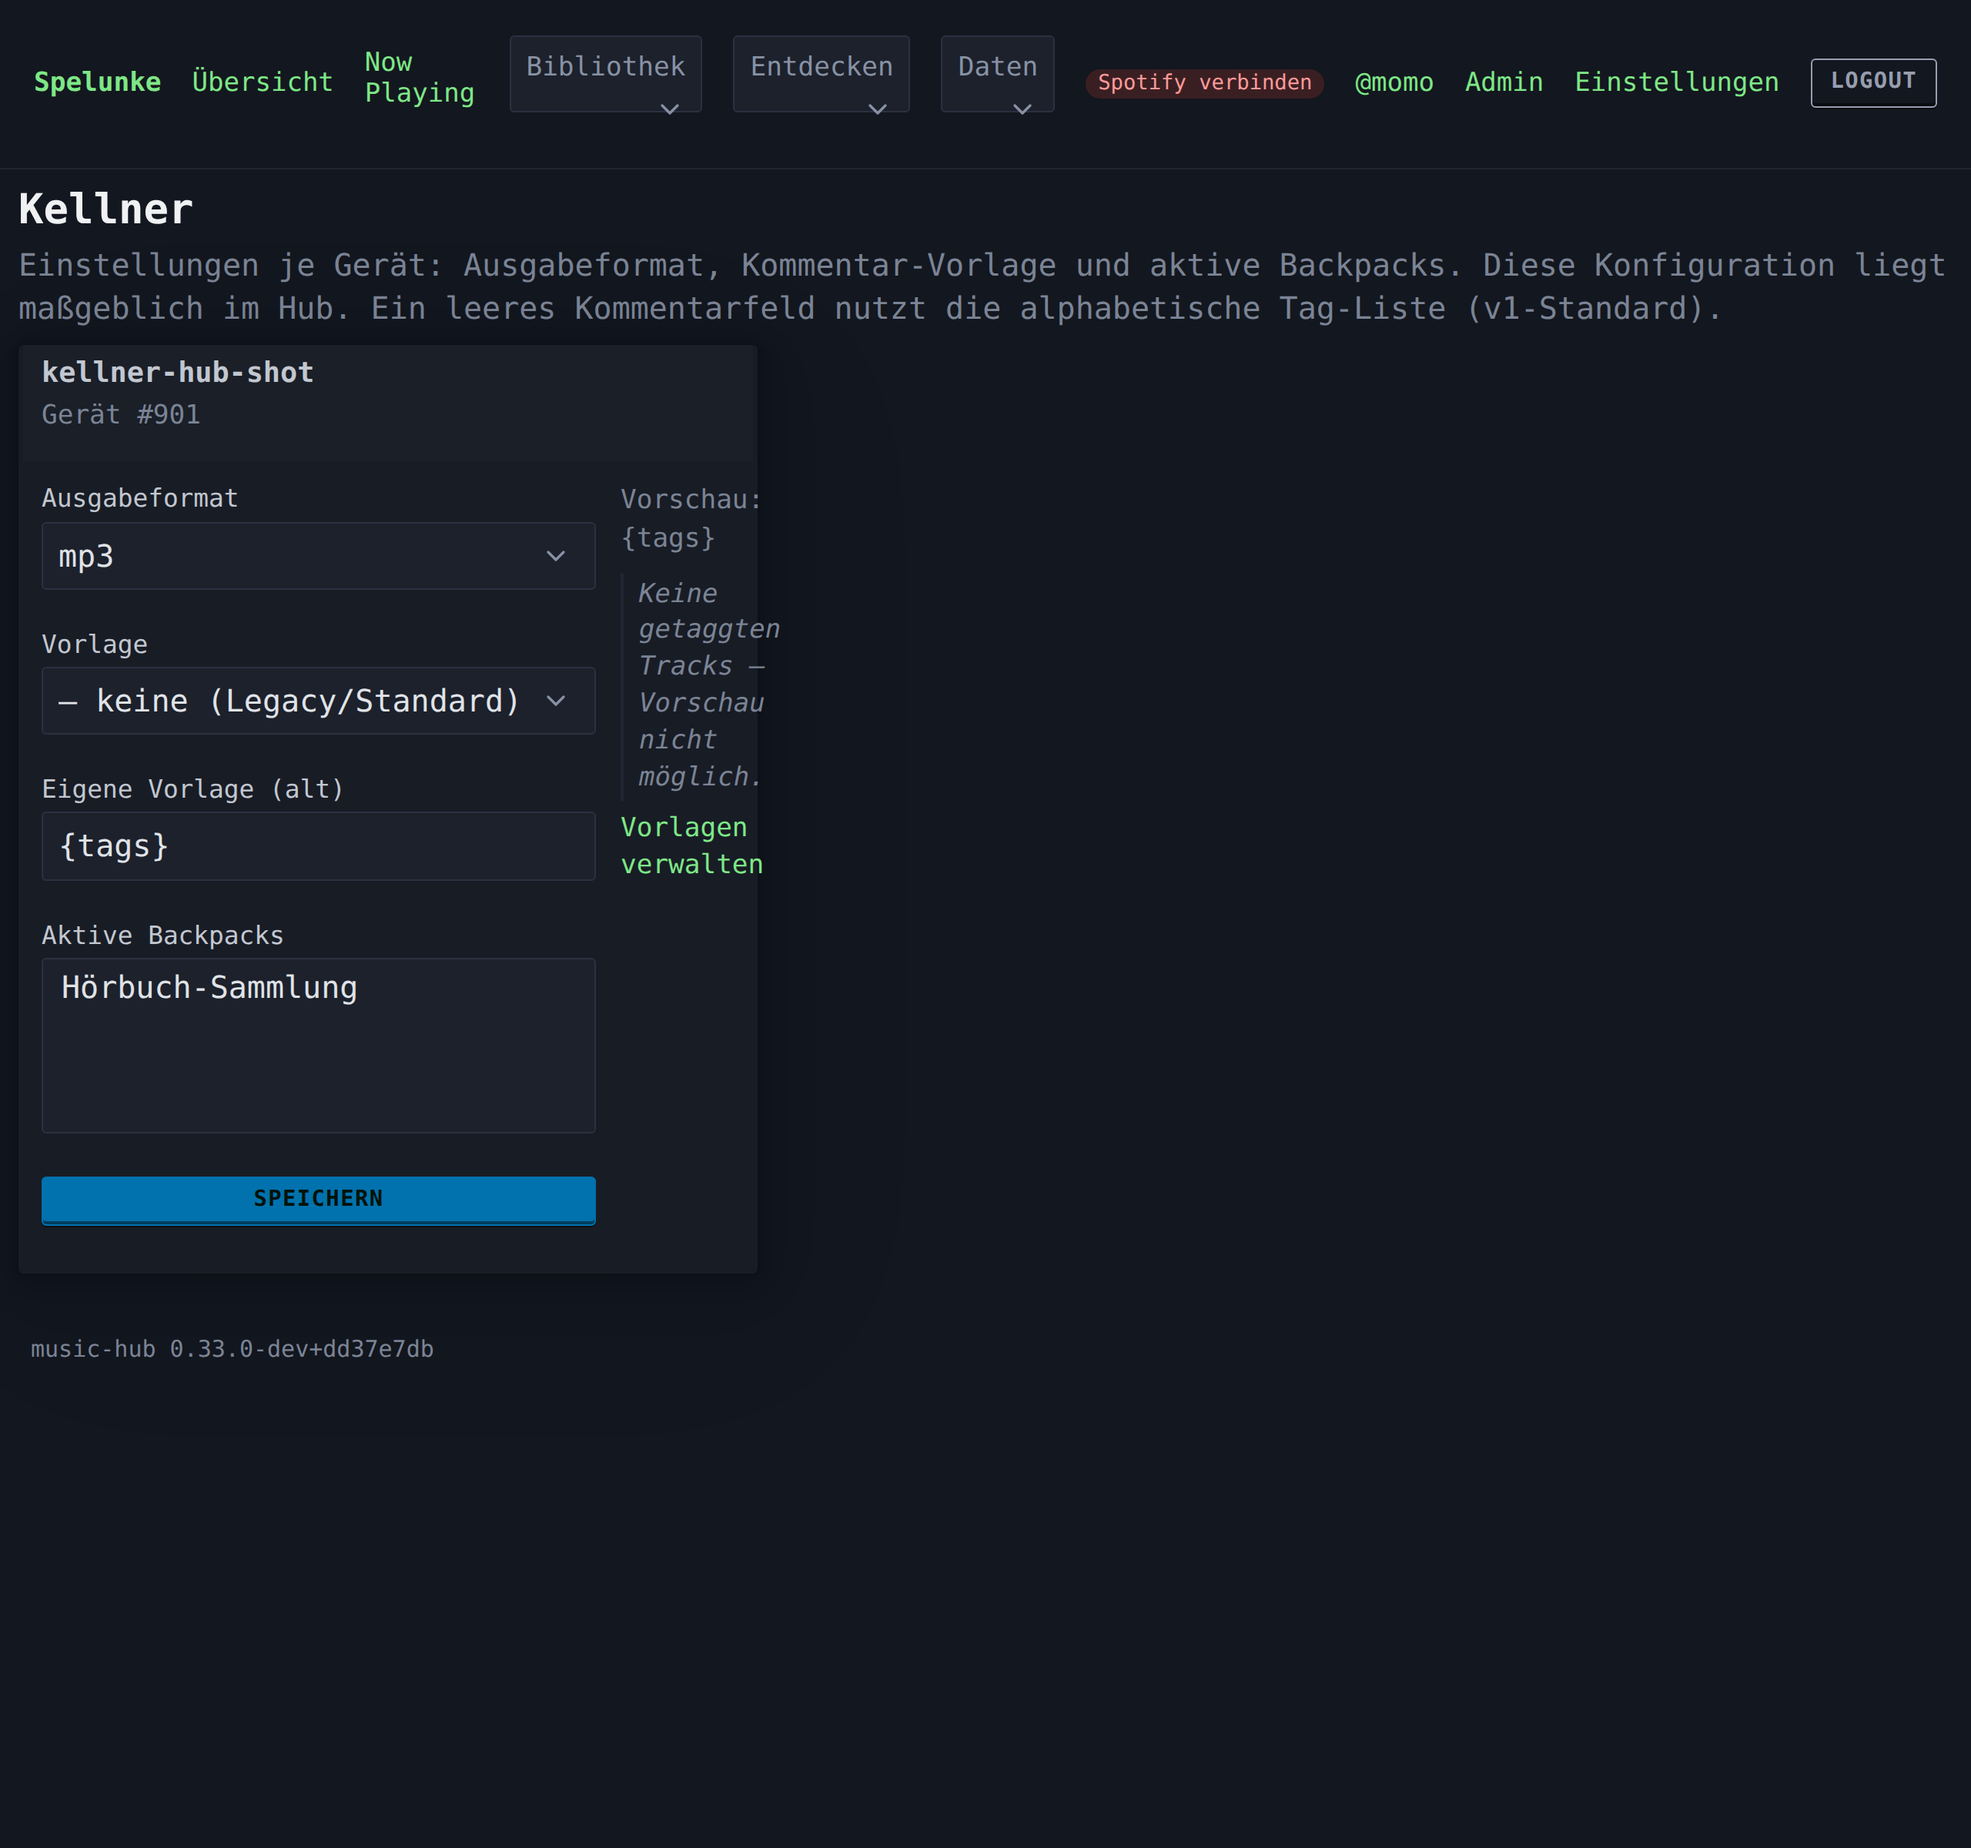
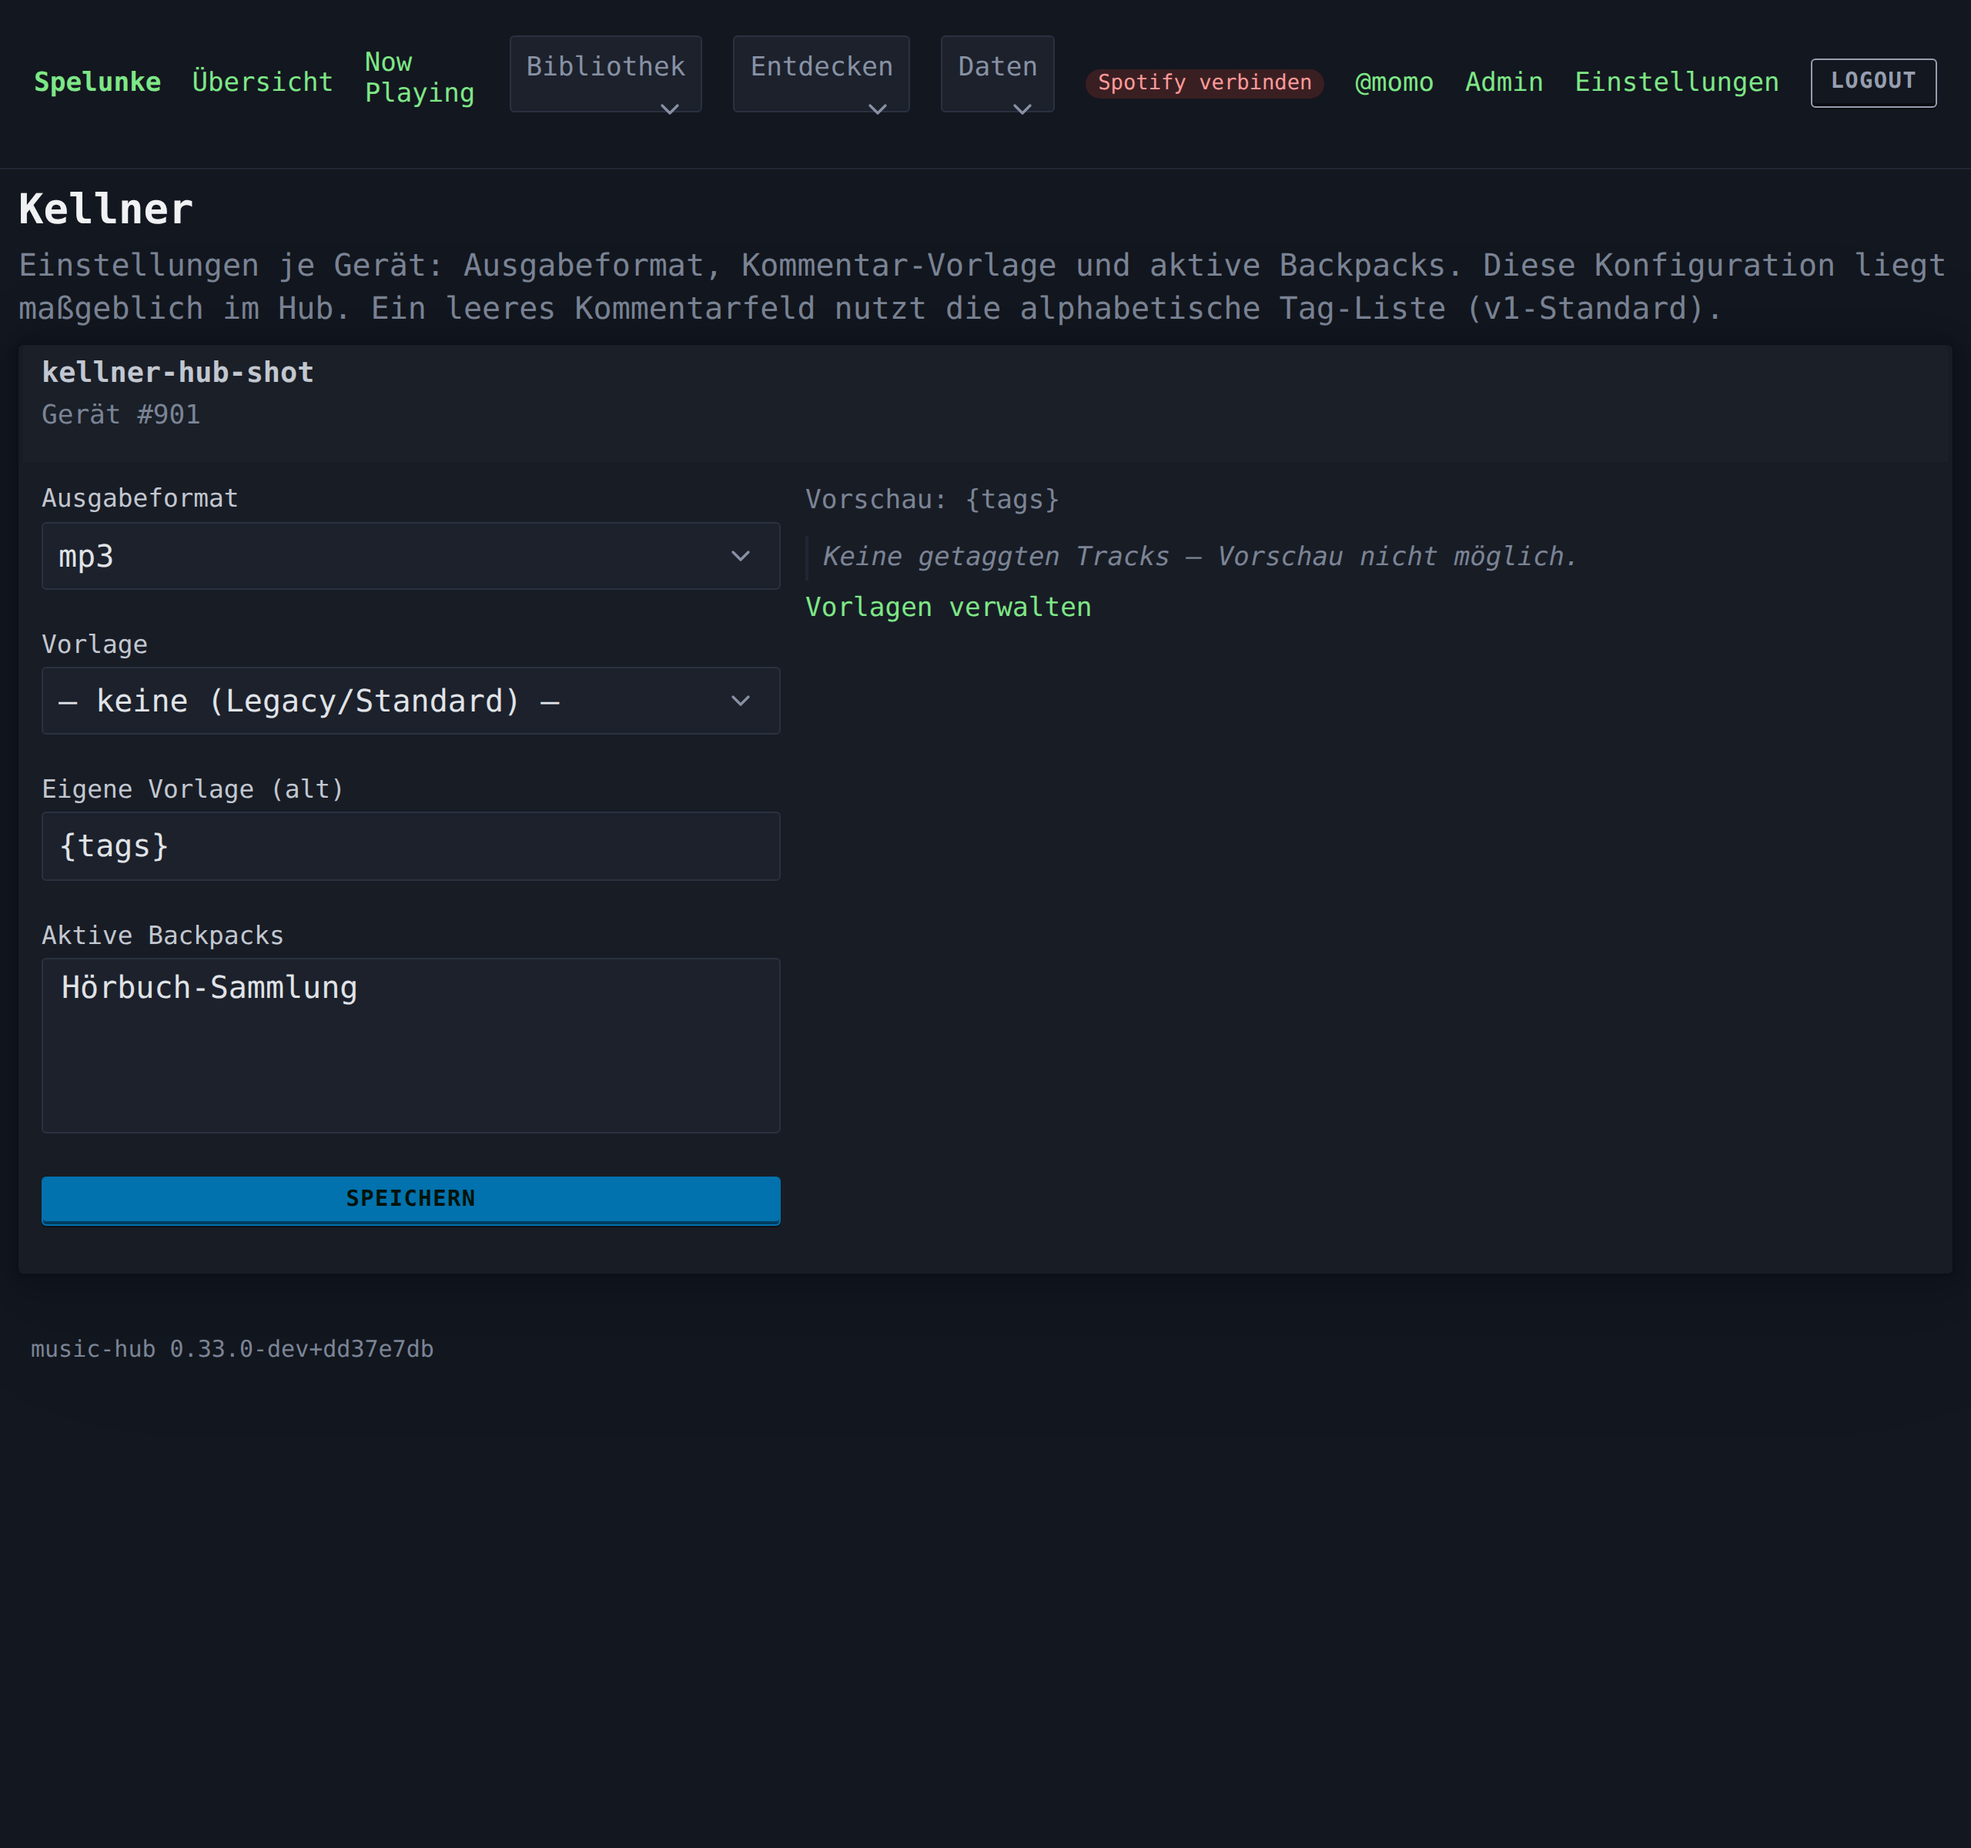
fix(hub): kellner card full-width so preview column is usable (#679)

diff --git a/music-hub/templates/base.html b/music-hub/templates/base.html
@@ -262,6 +262,14 @@
         gap: 0.6rem;
         align-items: start;
       }
+      /* /kellner: the device card must use the full main width, NOT the
+         24rem card cap, so the two-column settings/preview split is usable. */
+      .hub-kellner-grid {
+        display: grid;
+        grid-template-columns: minmax(0, 1fr);
+        gap: 0.6rem;
+        align-items: start;
+      }
       /* /kellner: two columns from 64rem (settings left, preview right). */
       .hub-kellner-cols {
         display: grid;

diff --git a/music-hub/templates/kellner_settings.html b/music-hub/templates/kellner_settings.html
@@ -13,7 +13,7 @@
     Noch keine Geräte. Heuere einen Kellner an, um hier Einstellungen zu verwalten.
 </p>
 {% else %}
-<div class="hub-backpack-grid">
+<div class="hub-kellner-grid">
     {% for c in cards %}
     <article class="hub-backpack-card">
         <header>
